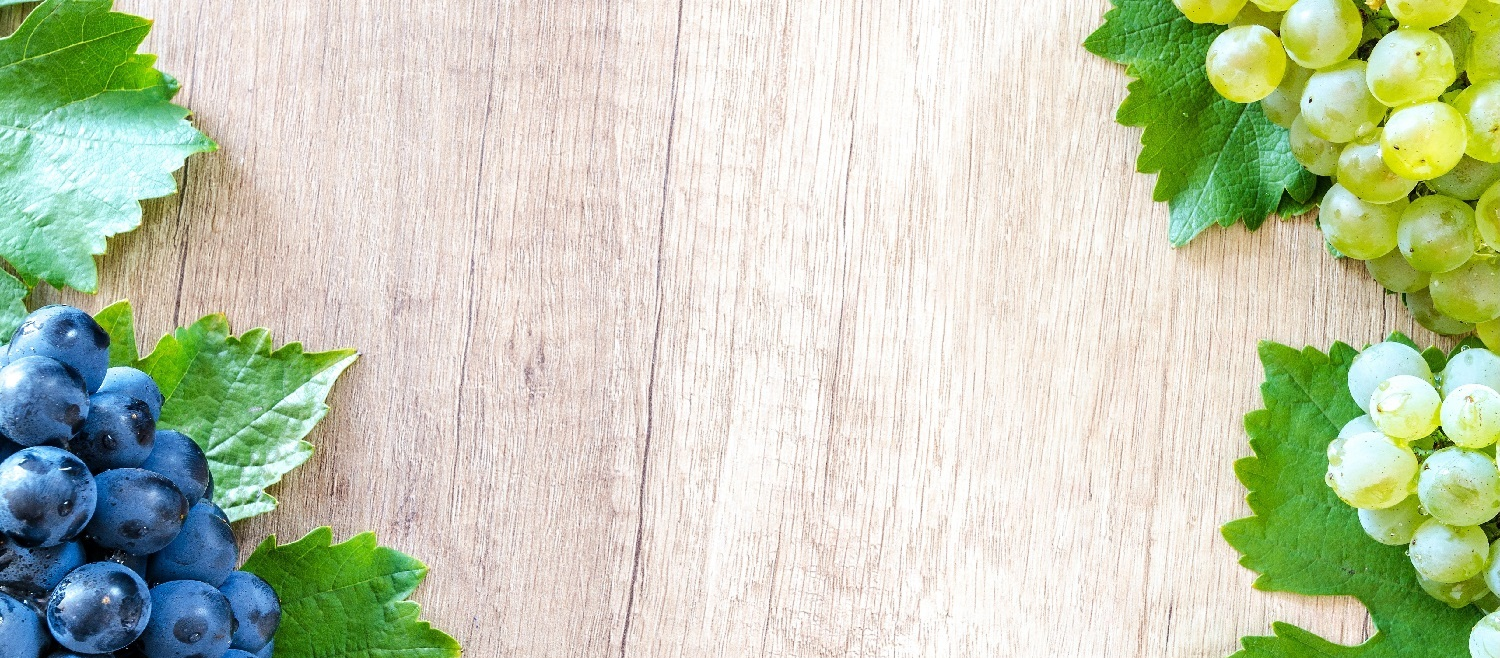
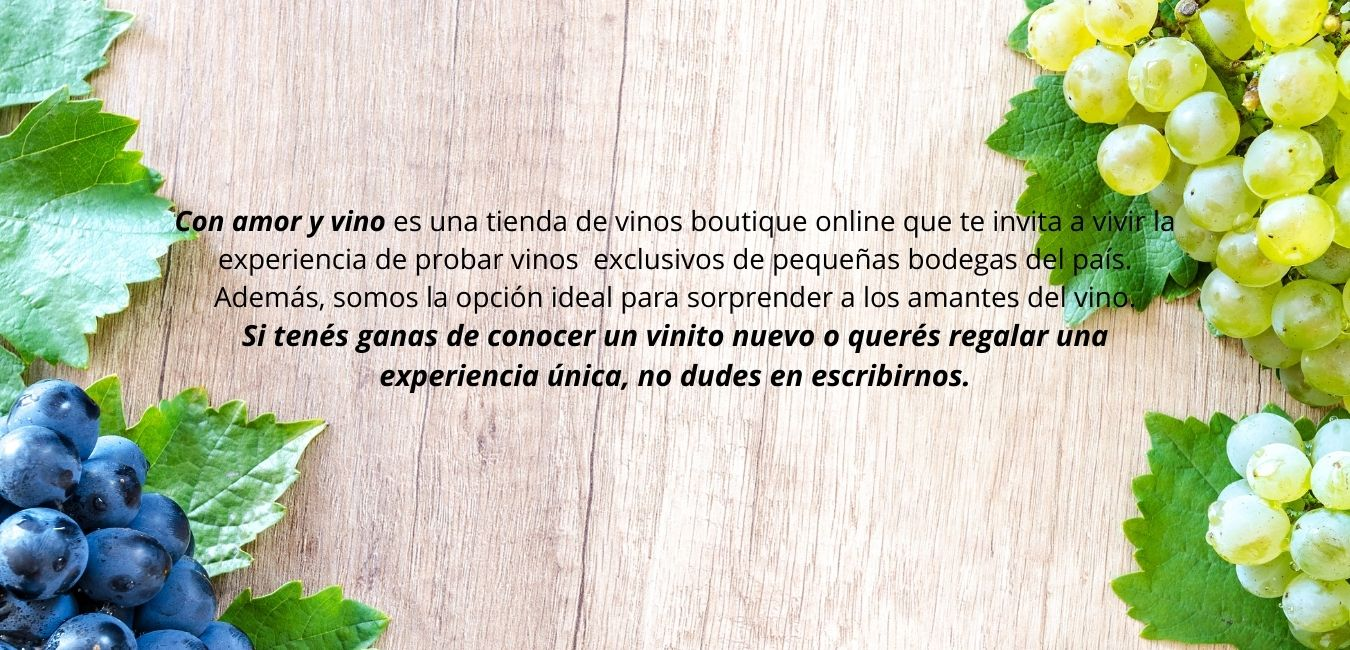
agregue imagenes de secciones

diff --git a/informacion.html b/informacion.html
@@ -7,6 +7,7 @@
 	<link rel="shortcut icon" href="assets/images/ico.ico">
 	<meta name="keywords" content="vino, vinos, venta, regalos, malbec, cabernet sauvignon, merlot, pinot noir, chardonnay, blend">
 	<meta name="description" content="Queremos ayudarte a elegier el vino que mas se adapte a vos, para eso te ofrecemos esta sección para que conozcas sus características">
+	<meta name="format-detection" content="telephone-no">
 	<link href="https://cdn.jsdelivr.net/npm/bootstrap@5.0.0-beta1/dist/css/bootstrap.min.css" rel="stylesheet" integrity="sha384-giJF6kkoqNQ00vy+HMDP7azOuL0xtbfIcaT9wjKHr8RbDVddVHyTfAAsrekwKmP1" crossorigin="anonymous">
 	<link rel="stylesheet" type="text/css" href="css/estilos.css">
 </head>
@@ -54,7 +55,7 @@
 					<p>Es, junto al Malbec una de las variedades que más se ha investigado en los últimos años, además de ofrecer diferentes perfiles de acuerdo al origen. Argentina ofrece al menos tres estilos propios de Cabernet con una particularidad: todos provienen de climas continentales, algo muy raro de encontrar en otras partes del mundo.
 					En el noroeste alcanza una asombrosa intensidad de color en el marco de aromas a moras y pimiento verde, mientras
 			 		que en Cuyo se intensifica el carácter frutado descripto como grosellas maduras. En las zonas más australes se potencian
-			  		los sabores minerales y terrosos..
+			  		los sabores minerales y terrosos.
 			  		</p>
 	      			</div>
     			</div>
@@ -67,7 +68,7 @@
     			</h2>
 				<div id="collapseTwo" class="accordion-collapse collapse" aria-labelledby="headingTwo" data-bs-parent="#accordionExample">
       				<div class="accordion-body">
-	        		<p>La Malbec es originaria del sudoeste de Francia en la región de Cahors, donde se la denominaba Cot.<strong>Es la variedad tinta que mejor se ha adaptado al suelo argentino donde encontró las condiciones ecológicas ideales.</strong></p>
+	        		<p>La Malbec es originaria del sudoeste de Francia en la región de Cahors, donde se la denominaba Cot.<strong> Es la variedad tinta que mejor se ha adaptado al suelo argentino donde encontró las condiciones ecológicas ideales.</strong></p>
 					<p>El Malbec presenta un color rojo profundo, rubí intenso con matices violáceos o azulados que puede llegar a parecer
 					casi negro, durante los dos primeros años estos colores están definidos por el rojo cereza o rojo guinda, luego se 
 					vislumbran matices bordó. 
@@ -76,7 +77,7 @@
 					Los vinos Malbec son cálidos, suaves y con taninos dulces muy agradables. A la boca pueden apreciarse sabores a mermelada de ciruela, dulce de guinda, chocolate, frutas secas, vainilla y gustos balsámicos. Suele haber notas herbáceas cuando el cepaje no es cosechado en su óptima maduración lo que suele determinar un gusto amargo. Cuando se añeja en botella aparece el tabaco, la pimienta, canela o cuero.
 					</p>
 					<p>El Malbec es ideal para acompañar:
-						<ul><li>Carnes a la parrilla.</li>
+						<ul><li>Carnes a la parrilla</li>
 						<li>Carnes rojas</li>
 						<li> Quesos duros</li>
 						<li> Pastas con salsa de tomate</li></ul>
@@ -132,7 +133,7 @@
 				<div class="card" style="width: 18rem;">
 				  	<img src="https://images.pexels.com/photos/2909085/pexels-photo-2909085.jpeg?auto=compress&cs=tinysrgb&dpr=1&w=500" class="card-img-top" alt="...">
 				 	<div class="card-body">
-				    <p class="card-text">Para conservar nuestros vinos lo ideal es buscar un sitio que lo mantenga a una temperatura constante, entre los 12 y 16 grados centígrados. Si no contamos con una cava, lo correcto es conservar el vino en un lugar oscuro y fresco en el que la temperatura ambiente no supere los 22 grados.</p>
+				    <p class="card-text">Para conservar nuestros vinos lo ideal es buscar un sitio que lo mantenga a una temperatura constante, entre los 12 y 16 grados centígrados. Si no contamos con una cava, lo correcto es conservar el vino en un lugar oscuro y fresco en el que la temperatura ambiente no supere los 22° C.</p>
 					</div>
 				</div>
 			</div>

diff --git a/nosotros.html b/nosotros.html
@@ -7,6 +7,7 @@
 	<link rel="shortcut icon" href="assets/images/ico.ico">
 	<meta name="keywords" content="vino, vinos, venta, regalos, malbec, cabernet sauvignon, merlot, pinot noir, chardonnay, blend">
 	<meta name="description" content="Este es un espacio para los que les gusta el vino, sin tanto protocolo. Para los que respetamos su arte pero nos atrevemos humildemente a compartir nuestra opinion. Regalá o regalate un vino con nosotros">
+	<meta name="format-detection" content="telephone-no">
 	<link href="https://cdn.jsdelivr.net/npm/bootstrap@5.0.0-beta1/dist/css/bootstrap.min.css" rel="stylesheet" integrity="sha384-giJF6kkoqNQ00vy+HMDP7azOuL0xtbfIcaT9wjKHr8RbDVddVHyTfAAsrekwKmP1" crossorigin="anonymous">
 	<link rel="stylesheet" type="text/css" href="css/estilos.css">
 </head>
@@ -32,17 +33,8 @@
 			</div>
 		</div>
 	</nav>
-	<div class="nosotros_background container-fluid">
-		<div class="row">
-			<div class="col-sm-12 col-md-4 col-lg-4"></div>
-			<div class="col-sm-12 col-md-4 col-lg-4">
-				<h1 class="nosotros_titulo">Con amor y vino</h1>
-				<p class="nosotros_texto"><b>Con amor y vino</b> es una tienda de vinos boutique online que te invita a vivir la experiencia de probar vinos exclusivos de pequeñas bodegas del paìs.
-				Además, somos la opción ideal para sorprender a los amantes del vino.
-				<b>Si tenés ganas de conocer un vinito nuevo o querés regalar una experiencia única, no dudes en escribirnos</b></p>
-			</div>
-			<div class="col-sm-12 col-md-4 col-lg-4"></div>
-		</div>
+	<div class="mx-auto mb-3">
+		<img class="img-fluid" src="assets/images/nosotros_background.jpg">
 	</div>
 	<!--<div class="container-fluid mt-5">
 		<div class="row">

diff --git a/index.html b/index.html
@@ -7,6 +7,7 @@
 	<link rel="shortcut icon" href="assets/images/ico.ico">
 	<meta name="keywords" content="vino, vinos, venta, regalos, malbec, cabernet sauvignon, merlot, pinot noir, chardonnay, blend">
 	<meta name="description" content="Regalá o regalate un vino con nosotros, este es un espacio para todos los que aman compartir un buen vino, con amigos, pareja o uno mismo">
+	<meta name="format-detection" content="telephone-no">
 	<link href="https://cdn.jsdelivr.net/npm/bootstrap@5.0.0-beta1/dist/css/bootstrap.min.css" rel="stylesheet" integrity="sha384-giJF6kkoqNQ00vy+HMDP7azOuL0xtbfIcaT9wjKHr8RbDVddVHyTfAAsrekwKmP1" crossorigin="anonymous">
 	<link rel="stylesheet" type="text/css" href="css/estilos.css">
 </head>
@@ -33,7 +34,7 @@
 		</div>
 	</nav>
 	<div class="mx-auto mb-5">
-		<img class="img-fluid" id="portada_img_opacity" src="assets/images/index_background.jpg">
+		<img class="img-fluid" src="assets/images/index_background.jpg">
 	</div>
 	<div class="container-fluid mb-5">
 		<div class="row">
@@ -68,7 +69,7 @@
 						<img src="assets/images/index_regalos.jpg" class="card-img-top" alt="...">
 						<div class="card-body">
 						<h5 class="card-title">Regalá o regalate un vino</h5>
-						<p class="card-text">Nosotros nos encargamos de todo</p>
+						<p class="card-text">Nosotros nos encargamos de todo.</p>
 						<a href="#" class="btn btn-primary">Regalos</a>
 						</div>
 				</div>

diff --git a/contacto.html b/contacto.html
@@ -7,6 +7,7 @@
 	<link rel="shortcut icon" href="assets/images/ico.ico">
 	<meta name="keywords" content="vino, vinos, venta, regalos, malbec, cabernet sauvignon, merlot, pinot noir, chardonnay, blend">
 	<meta name="description" content="Escribinos para recibir toda la información sobre las novedades y promociones que tenemos para vos">
+	<meta name="format-detection" content="telephone-no">
 	<link href="https://cdn.jsdelivr.net/npm/bootstrap@5.0.0-beta1/dist/css/bootstrap.min.css" rel="stylesheet" integrity="sha384-giJF6kkoqNQ00vy+HMDP7azOuL0xtbfIcaT9wjKHr8RbDVddVHyTfAAsrekwKmP1" crossorigin="anonymous">
 	<link rel="stylesheet" type="text/css" href="css/estilos.css">
 </head>
@@ -43,7 +44,7 @@
 						<input type="Email"name="Email">
 						<label class="desea_suscribirse">Recibir información</label>
 						<input class="checkbox" type="checkbox" name="Suscribirse" value="Si">
-						<textarea name="mensaje" placeholder="dejanos tu comentario"  cols="30" rows="8"></textarea>
+						<textarea name="mensaje" placeholder="dejanos tu comentario:"  cols="30" rows="8"></textarea>
 						<input class="enviar" type="submit" name="Suscribirse" value="Enviar">
 						<input class="enviar" type="submit" name="Suscribirse" value="Limpiar datos">
 					</form>

diff --git a/vinos.html b/vinos.html
@@ -7,6 +7,7 @@
 	<link rel="shortcut icon" href="assets/images/ico.ico">
 	<meta name="keywords" content="vino, vinos, venta, regalos, malbec, cabernet sauvignon, merlot, pinot noir, chardonnay, blend">
 	<meta name="description" content="En esta sección encontrarás todas las variedades que tenemos para ofrecerte, elegí la que mas te guste o combinalas como quieras">
+	<meta name="format-detection" content="telephone-no">
 	<link href="https://cdn.jsdelivr.net/npm/bootstrap@5.0.0-beta1/dist/css/bootstrap.min.css" rel="stylesheet" integrity="sha384-giJF6kkoqNQ00vy+HMDP7azOuL0xtbfIcaT9wjKHr8RbDVddVHyTfAAsrekwKmP1" crossorigin="anonymous">
 	<link rel="stylesheet" type="text/css" href="css/estilos.css">
 </head>
@@ -32,15 +33,8 @@
 			</div>
 		</div>
 	</nav>
-	<div class="vinos_background container-fluid">
-		<div class="row">
-			<div class="col-sm-12 col-md-4 col-lg-4"></div>
-			<div class="col-sm-12 col-md-4 col-lg-4">
-				<div>
-				<h1 class="vinos_titulo">Nuestros vinos</h1></div>
-			</div>
-			<div class="col-sm-12 col-md-4 col-lg-4"></div>
-		</div>
+	<div class="mx-auto mb-3">
+		<img class="img-fluid" src="assets/images/vinos_background.jpg">
 	</div>
 	<!--<section>
 		<table class="table table-striped" cellpadding="20" cellspacing="5">

diff --git a/css/estilos.css b/css/estilos.css
@@ -43,11 +43,6 @@ svg:hover {
 #index_btn:hover {
   transform: scale(1.1, 1.1); }
 
-.informacion_background {
-  background-image: url(../assets/images/informacion_background.jpg);
-  height: 600px;
-  width: auto; }
-
 .header_logo_background {
   height: 10px;
   background-image: url(../assets/images/header_logo_background.jpg);
@@ -101,18 +96,8 @@ table thead tr {
   height: 30px; }
 
 .vinos_background {
-  background-image: url(../assets/images/vinos_background.jpg);
-  height: 600px;
+  margin: auto;
   width: auto; }
-
-.vinos_titulo {
-  margin-top: 60%;
-  text-align: center;
-  font-family: arial, sans-serif;
-  font-weight: bolder;
-  color: white;
-  background-color: #8e2802;
-  transform: skewy(-5deg); }
 
 .foto {
   background-color: white;
@@ -211,21 +196,3 @@ footer p {
 
 footer div {
   margin-top: 25px; }
-
-.nosotros_background {
-  background-image: url(../assets/images/nosotros_background.jpg);
-  height: 600px;
-  width: auto; }
-
-.nosotros_titulo {
-  margin-top: 60%;
-  text-align: center;
-  font-family: arial, sans-serif;
-  font-weight: bolder;
-  color: white;
-  background-color: #ffae38;
-  padding: 2%;
-  transform: skewX(-20deg); }
-
-.nosotros_texto {
-  text-align: center; }

diff --git a/scss/_table.scss b/scss/_table.scss
@@ -22,17 +22,7 @@ table thead tr {
 
 }
 .vinos_background {
-	background-image: url(../assets/images/vinos_background.jpg);
-	height: 600px;
+	margin: auto;
 	width: auto;
 }
 
-.vinos_titulo {
-	margin-top: 60%;
- 	text-align: center;
-	font-family: arial, sans-serif;
- 	font-weight: bolder;
- 	color: white;
- 	background-color: #8e2802;
- 	transform: skewy(-5deg);
-}

diff --git a/scss/_index.scss b/scss/_index.scss
@@ -55,9 +55,3 @@ svg:hover {
 #index_btn:hover {
 	transform: scale(1.1,1.1);
 }
-
-.informacion_background {
-	background-image: url(../assets/images/informacion_background.jpg);
-	height: 600px;
-	width: auto;
-}
